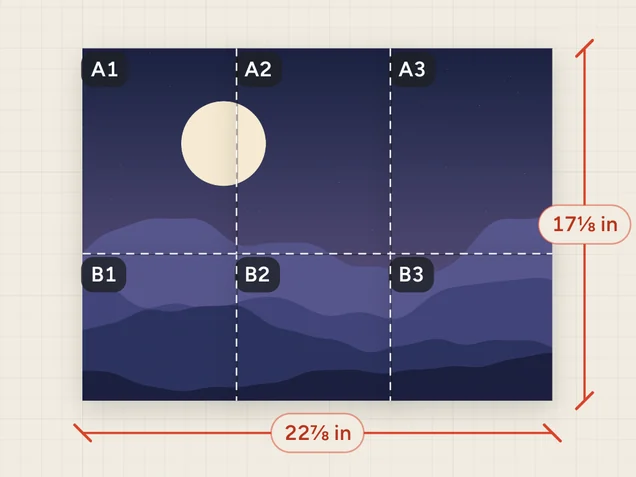
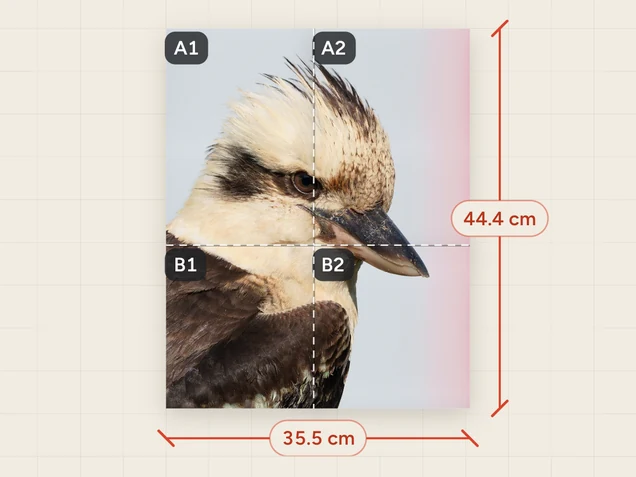
Just So: kookaburra poster on four A4 sheets replaces the night-sky poster
The Posters card and the poster screenshot now show a real photo made in the
app: a kookaburra at 35.5 x 44.4 cm across 2 x 2 A4 sheets, rated Crisp.

diff --git a/justso/index.html b/justso/index.html
@@ -245,7 +245,7 @@
                     <div class="mode-body"><div class="k">Many on one sheet</div><h3>Each photo at its own size</h3><p>Put several photos on one sheet, each at its own size, or make copies that fill the sheet to save paper. Optional corner trim marks or outlines show where to cut.</p></div>
                 </article>
                 <article class="mode">
-                    <img src="art/poster.webp" alt="A poster of a night sky divided across six sheets, named A1 to B3" width="636" height="477" loading="lazy">
+                    <img src="art/poster.webp" alt="A photo of a kookaburra as a poster across four A4 sheets, named A1 to B2, 35.5 by 44.4 centimetres" width="636" height="477" loading="lazy">
                     <div class="mode-body"><div class="k">Posters</div><h3>One photo across ordinary sheets</h3><p>Print one photo large across ordinary sheets of paper, with overlap for joining, trim marks, sheet names such as A1 and A2, and a guide page that shows how to put it together.</p></div>
                 </article>
             </div>
@@ -263,7 +263,7 @@
                 <figure class="screen"><img src="shots/size.jpg" alt="One photo set to 7 by 5 inches on a Letter sheet" width="640" height="1138" loading="lazy"><p>Say the size, get that size</p></figure>
                 <figure class="screen"><img src="shots/mix.jpg" alt="Several photos on one sheet, each at its own size, two cut round" width="640" height="1138" loading="lazy"><p>Many photos, each at its own size</p></figure>
                 <figure class="screen"><img src="shots/fill.jpg" alt="Six wallet-size copies of one photo filling a Letter sheet" width="640" height="1138" loading="lazy"><p>Copies that fill the sheet</p></figure>
-                <figure class="screen"><img src="shots/poster.jpg" alt="A poster divided across six Letter sheets, three across and two down" width="640" height="1138" loading="lazy"><p>A poster across ordinary sheets</p></figure>
+                <figure class="screen"><img src="shots/poster.jpg" alt="A kookaburra poster across four A4 sheets, two across and two down, rated Crisp" width="640" height="1138" loading="lazy"><p>A poster across ordinary sheets</p></figure>
                 <figure class="screen"><img src="shots/check.jpg" alt="The Check your printer screen, with paper sizes and the check page" width="640" height="1138" loading="lazy"><p>The printer check</p></figure>
                 <figure class="screen"><img src="shots/home.jpg" alt="The Just So home screen with Print to size, Make a poster and Check your printer" width="640" height="1138" loading="lazy"><p>Print to size, or make a poster</p></figure>
             </div>
